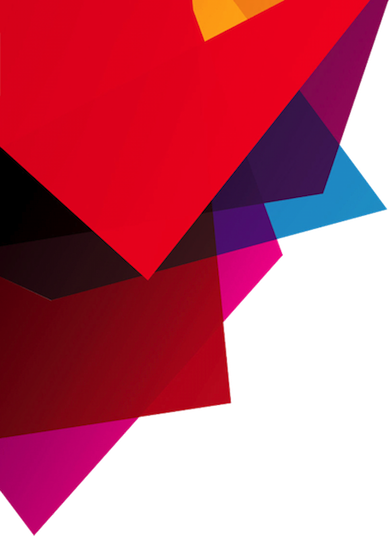
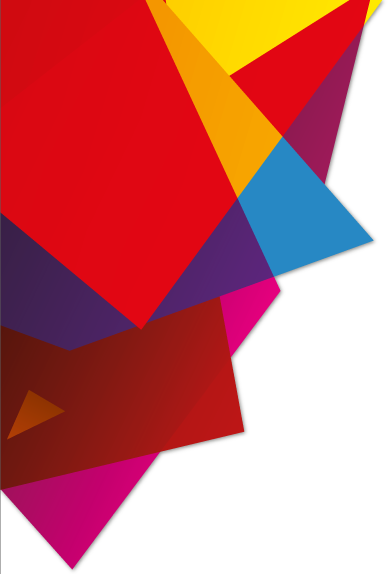
Updated background colour graphic from EPS

Changed region(s): [[0.0, 0.0, 1.0, 1.0], [0.0, 0.6567, 0.1542, 0.7761]]

diff --git a/app/assets/stylesheets/application.css.scss b/app/assets/stylesheets/application.css.scss
@@ -29,7 +29,7 @@ html, body {
 // layout styles
 body {
   min-width: $page_width;
-  background: white url(colour-graphic-shaddow.png) top left no-repeat;
+  background: white url(colour-graphic.png) top left no-repeat;
   font-family: 'Open Sans', Helvetica, sans-serif;
   font-size: 13px;
   color: #333333;
